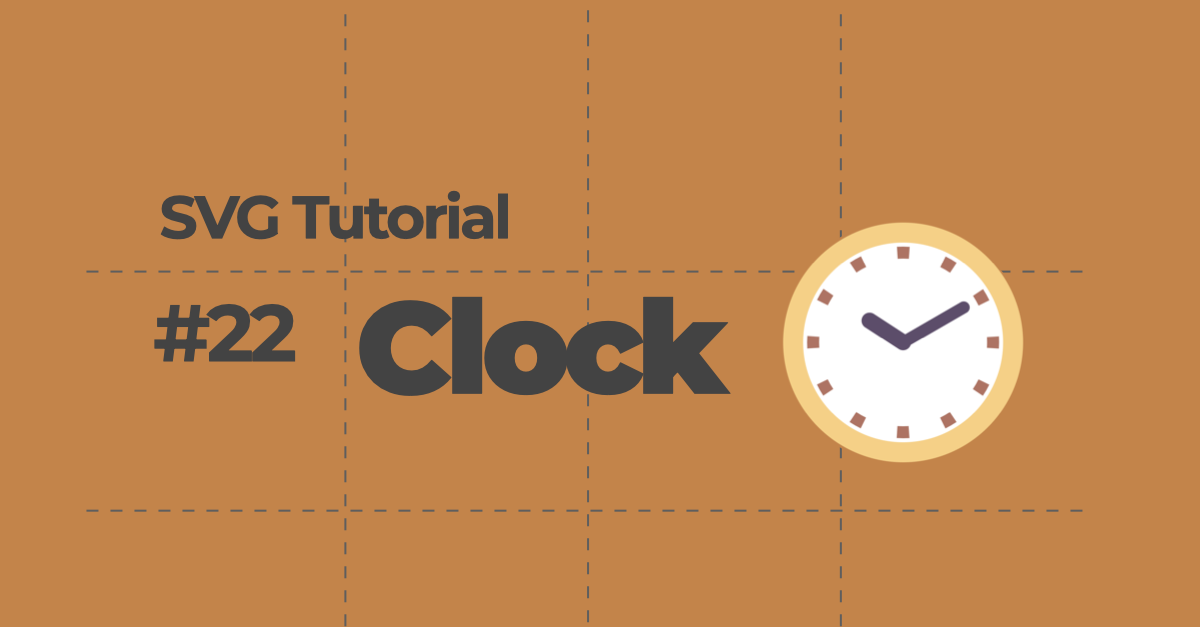
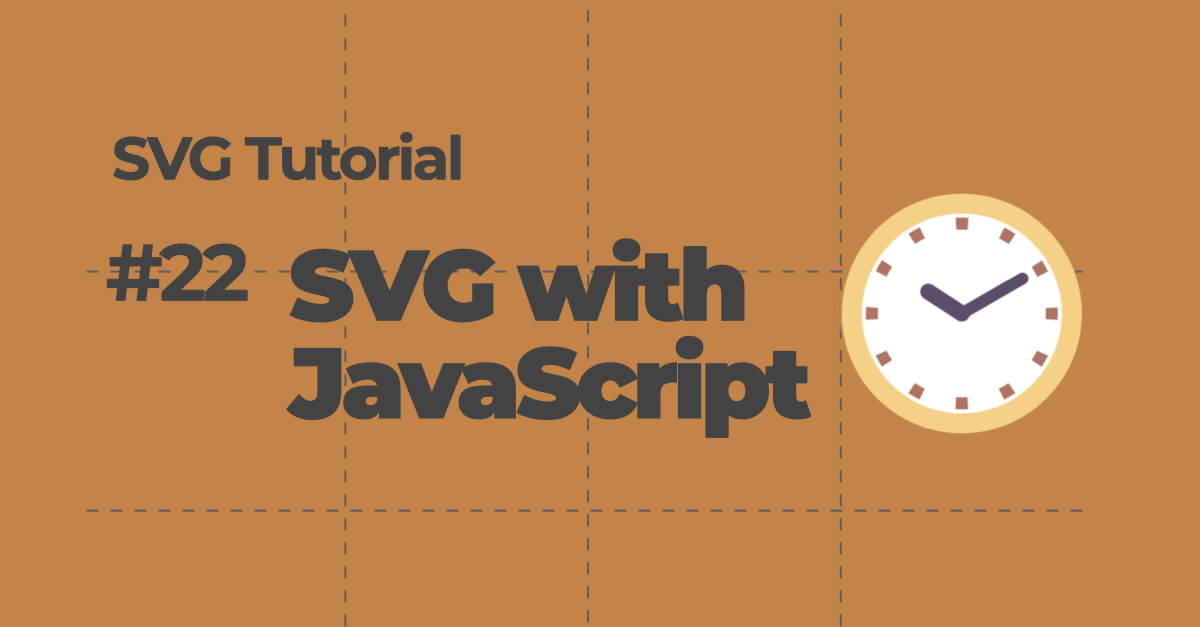
Update thumbnail for SVG with JS and Diagram

Changed region(s): [[0.0925, 0.2121, 0.925, 0.7576]]

diff --git a/.astro/types.d.ts b/.astro/types.d.ts
@@ -188,6 +188,188 @@ declare module 'astro:content' {
 
 	type ContentEntryMap = {
 		"svg": {
+"animation-on-hover.md": {
+	id: "animation-on-hover.md";
+  slug: "animation-on-hover";
+  body: string;
+  collection: "svg";
+  data: any
+} & { render(): Render[".md"] };
+"arc.md": {
+	id: "arc.md";
+  slug: "arc";
+  body: string;
+  collection: "svg";
+  data: any
+} & { render(): Render[".md"] };
+"basic-path.md": {
+	id: "basic-path.md";
+  slug: "basic-path";
+  body: string;
+  collection: "svg";
+  data: any
+} & { render(): Render[".md"] };
+"basic-shapes.md": {
+	id: "basic-shapes.md";
+  slug: "basic-shapes";
+  body: string;
+  collection: "svg";
+  data: any
+} & { render(): Render[".md"] };
+"bear.md": {
+	id: "bear.md";
+  slug: "bear";
+  body: string;
+  collection: "svg";
+  data: any
+} & { render(): Render[".md"] };
+"bell.md": {
+	id: "bell.md";
+  slug: "bell";
+  body: string;
+  collection: "svg";
+  data: any
+} & { render(): Render[".md"] };
+"clip-path.md": {
+	id: "clip-path.md";
+  slug: "clip-path";
+  body: string;
+  collection: "svg";
+  data: any
+} & { render(): Render[".md"] };
+"clock.md": {
+	id: "clock.md";
+  slug: "clock";
+  body: string;
+  collection: "svg";
+  data: any
+} & { render(): Render[".md"] };
+"cubic-bezier.md": {
+	id: "cubic-bezier.md";
+  slug: "cubic-bezier";
+  body: string;
+  collection: "svg";
+  data: any
+} & { render(): Render[".md"] };
+"data-driven-diagram.md": {
+	id: "data-driven-diagram.md";
+  slug: "data-driven-diagram";
+  body: string;
+  collection: "svg";
+  data: any
+} & { render(): Render[".md"] };
+"forest.md": {
+	id: "forest.md";
+  slug: "forest";
+  body: string;
+  collection: "svg";
+  data: any
+} & { render(): Render[".md"] };
+"gingerbread-figure.md": {
+	id: "gingerbread-figure.md";
+  slug: "gingerbread-figure";
+  body: string;
+  collection: "svg";
+  data: any
+} & { render(): Render[".md"] };
+"gradient - old.md": {
+	id: "gradient - old.md";
+  slug: "gradient---old";
+  body: string;
+  collection: "svg";
+  data: any
+} & { render(): Render[".md"] };
+"gradient.md": {
+	id: "gradient.md";
+  slug: "gradient";
+  body: string;
+  collection: "svg";
+  data: any
+} & { render(): Render[".md"] };
+"house.md": {
+	id: "house.md";
+  slug: "house";
+  body: string;
+  collection: "svg";
+  data: any
+} & { render(): Render[".md"] };
+"interaction.md": {
+	id: "interaction.md";
+  slug: "interaction";
+  body: string;
+  collection: "svg";
+  data: any
+} & { render(): Render[".md"] };
+"multiple-components.md": {
+	id: "multiple-components.md";
+  slug: "multiple-components";
+  body: string;
+  collection: "svg";
+  data: any
+} & { render(): Render[".md"] };
+"path-based-animation.md": {
+	id: "path-based-animation.md";
+  slug: "path-based-animation";
+  body: string;
+  collection: "svg";
+  data: any
+} & { render(): Render[".md"] };
+"polygon.md": {
+	id: "polygon.md";
+  slug: "polygon";
+  body: string;
+  collection: "svg";
+  data: any
+} & { render(): Render[".md"] };
+"quadratic-bezier.md": {
+	id: "quadratic-bezier.md";
+  slug: "quadratic-bezier";
+  body: string;
+  collection: "svg";
+  data: any
+} & { render(): Render[".md"] };
+"ribbon.md": {
+	id: "ribbon.md";
+  slug: "ribbon";
+  body: string;
+  collection: "svg";
+  data: any
+} & { render(): Render[".md"] };
+"snowing.md": {
+	id: "snowing.md";
+  slug: "snowing";
+  body: string;
+  collection: "svg";
+  data: any
+} & { render(): Render[".md"] };
+"svg-in-css.md": {
+	id: "svg-in-css.md";
+  slug: "svg-in-css";
+  body: string;
+  collection: "svg";
+  data: any
+} & { render(): Render[".md"] };
+"text-path.md": {
+	id: "text-path.md";
+  slug: "text-path";
+  body: string;
+  collection: "svg";
+  data: any
+} & { render(): Render[".md"] };
+"transform.md": {
+	id: "transform.md";
+  slug: "transform";
+  body: string;
+  collection: "svg";
+  data: any
+} & { render(): Render[".md"] };
+"use.md": {
+	id: "use.md";
+  slug: "use";
+  body: string;
+  collection: "svg";
+  data: any
+} & { render(): Render[".md"] };
 };
 
 	};
